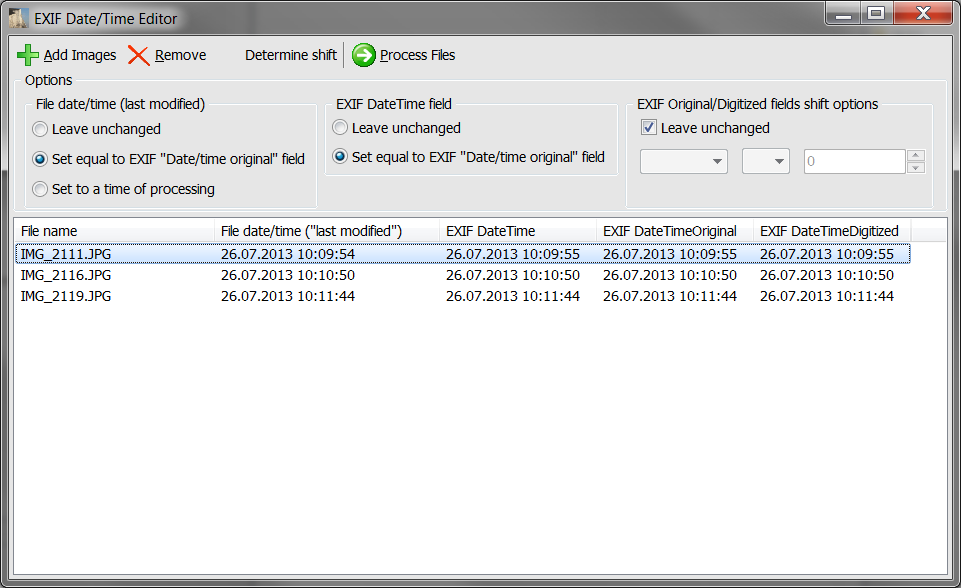
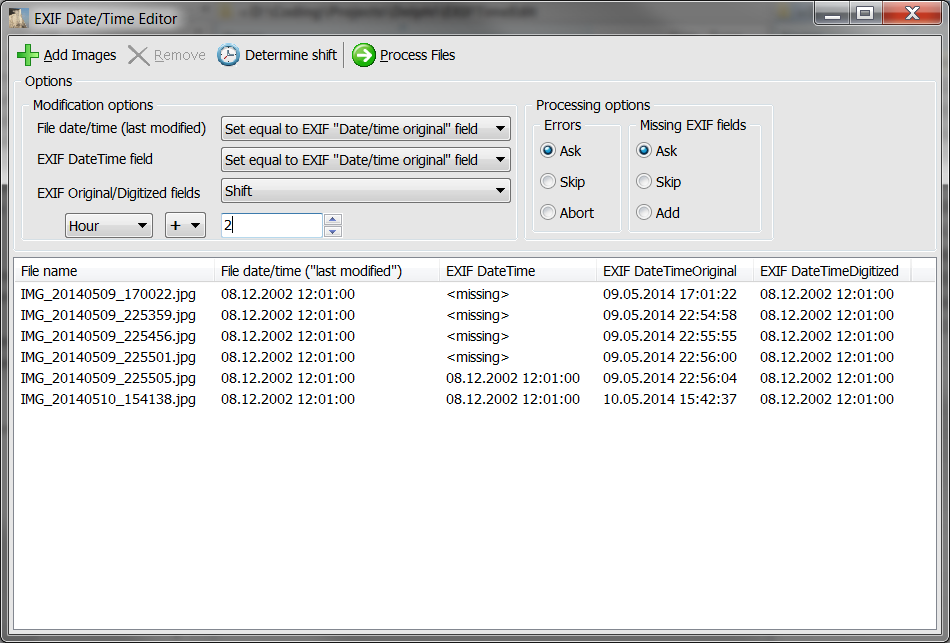
Readme and screenshot updated

Changed region(s): [[0.0, 0.0, 1.0, 0.6429], [0.0, 0.949, 1.0, 1.0]]

diff --git a/README.md b/README.md
@@ -3,45 +3,46 @@ EXIFTimeEdit
 
 EXIFTimeEdit is a simple program to correct timestamps inside metadata contained in digital photos. Does not modify other metadata fields and the image itself.
 
-It uses CCR Exif components (http://ccr-exif.googlecode.com/svn) and is based on TimeShift demo.
+It uses [CCR Exif components](http://ccr-exif.googlecode.com/svn) and is based on its TimeShift demo.
 
 Terminology
 -----------
-* EXIF = metadata stored inside JPEG files, just like mp3 tags
-* EXIF DateTime = The date and time of image creation. In Exif standard, it is the date and time the file was changed
-* EXIF DateTimeOriginal = The date and time when the original image data was generated
-* EXIF DateTimeDigitized = The date and time when the image was stored as digital data
-In theory, these 3 values could vary but in practice they tend to be identical until some processing software modifies DateTime field.
-EXIFTimeEdit only shifts values in DateTimeOriginal and DateTimeDigitized fields. DateTime field could be set equal to DateTimeOriginal or left unchanged.
-* File last modified timestamp = property of a file, not a tag in metadata. Could be set equal to DateTimeOriginal, to a time of processing or left unchanged.
 
-Features:
----------
+* `EXIF` = metadata stored inside JPEG files, just like mp3 tags
+* `EXIF DateTime` = The date and time of image creation. In Exif standard, it is the date and time the file was changed
+* `EXIF DateTimeOriginal` = The date and time when the original image data was generated
+* `EXIF DateTimeDigitized` = The date and time when the image was stored as digital data
+In theory, these 3 values could vary but in practice they tend to be identical until some processing software modifies DateTime field.
+`EXIFTimeEdit` only shifts values in `DateTimeOriginal` and `DateTimeDigitized` fields. `DateTime` field could be set equal to `DateTimeOriginal` or left unchanged.
+* File last modified timestamp = property of a file, not a tag in metadata. Could be set equal to `DateTimeOriginal`, to a time of processing or left unchanged.
+
+Features
+--------
 
 * Adjust timestamps flexibly, i.e. shift only the necessary date part (year/month/day/hour/minute/second) by some value or just set the date part to some value.
+* Add EXIF fields if they're missing
 * Modify file's last modified property
 * Process large numbers of files (limited only by your PC's resources) without application hang.
 * 'Determine time shift' tool: calculate time shift between selected file's EXIF timestamp and the timestamp you input.
 * Processed files remain in the list with changed props, so you can continue adjusting
 * Press Ctrl-A to select all items, Del to remove selected items
 
-Possible use cases:
--------------------
+Possible use cases
+------------------
+
 * Correct timestamps if your camera's clocks are late by several minutes
 * Correct timestamps to the local time zone if you forgot to adjust your camera clocks in a trip
 * Correct timestamps if you had your camera's clocks cleared to factory defaults (usually this means complete difference with current time)
 * Set last-modified property of a file to EXIF timestamp for sorting by date in Explorer
 * Set EXIF date/time to EXIF original/digitized
 
+Usage
+-----
 
-Please remember leap years and the day of 29/02 when changing year/month date parts!
-
-Usage:
-------
 * Add files which you want to modify by "Add images" or drag'n'drop them to the list control
-* Set file's last modified property option (optional)
-* Set EXIF date/time field option (optional)
-* Set modification value:
+* Select file's last modified property option (optional)
+* Select EXIF date/time field option (optional)
+* Select modification options (optional):
 	* Select date part to modify (year/month/etc)
 	* Select modification action: substract, add or set
 	* Input a number
@@ -53,6 +54,9 @@ Usage:
 	* Input that right timestamp, the required shift value will be displayed (in minutes)
 	* Press OK, the required options will be set
 * Press "Process files"
+
+Screenshots
+-----------
 
 Main window
 
